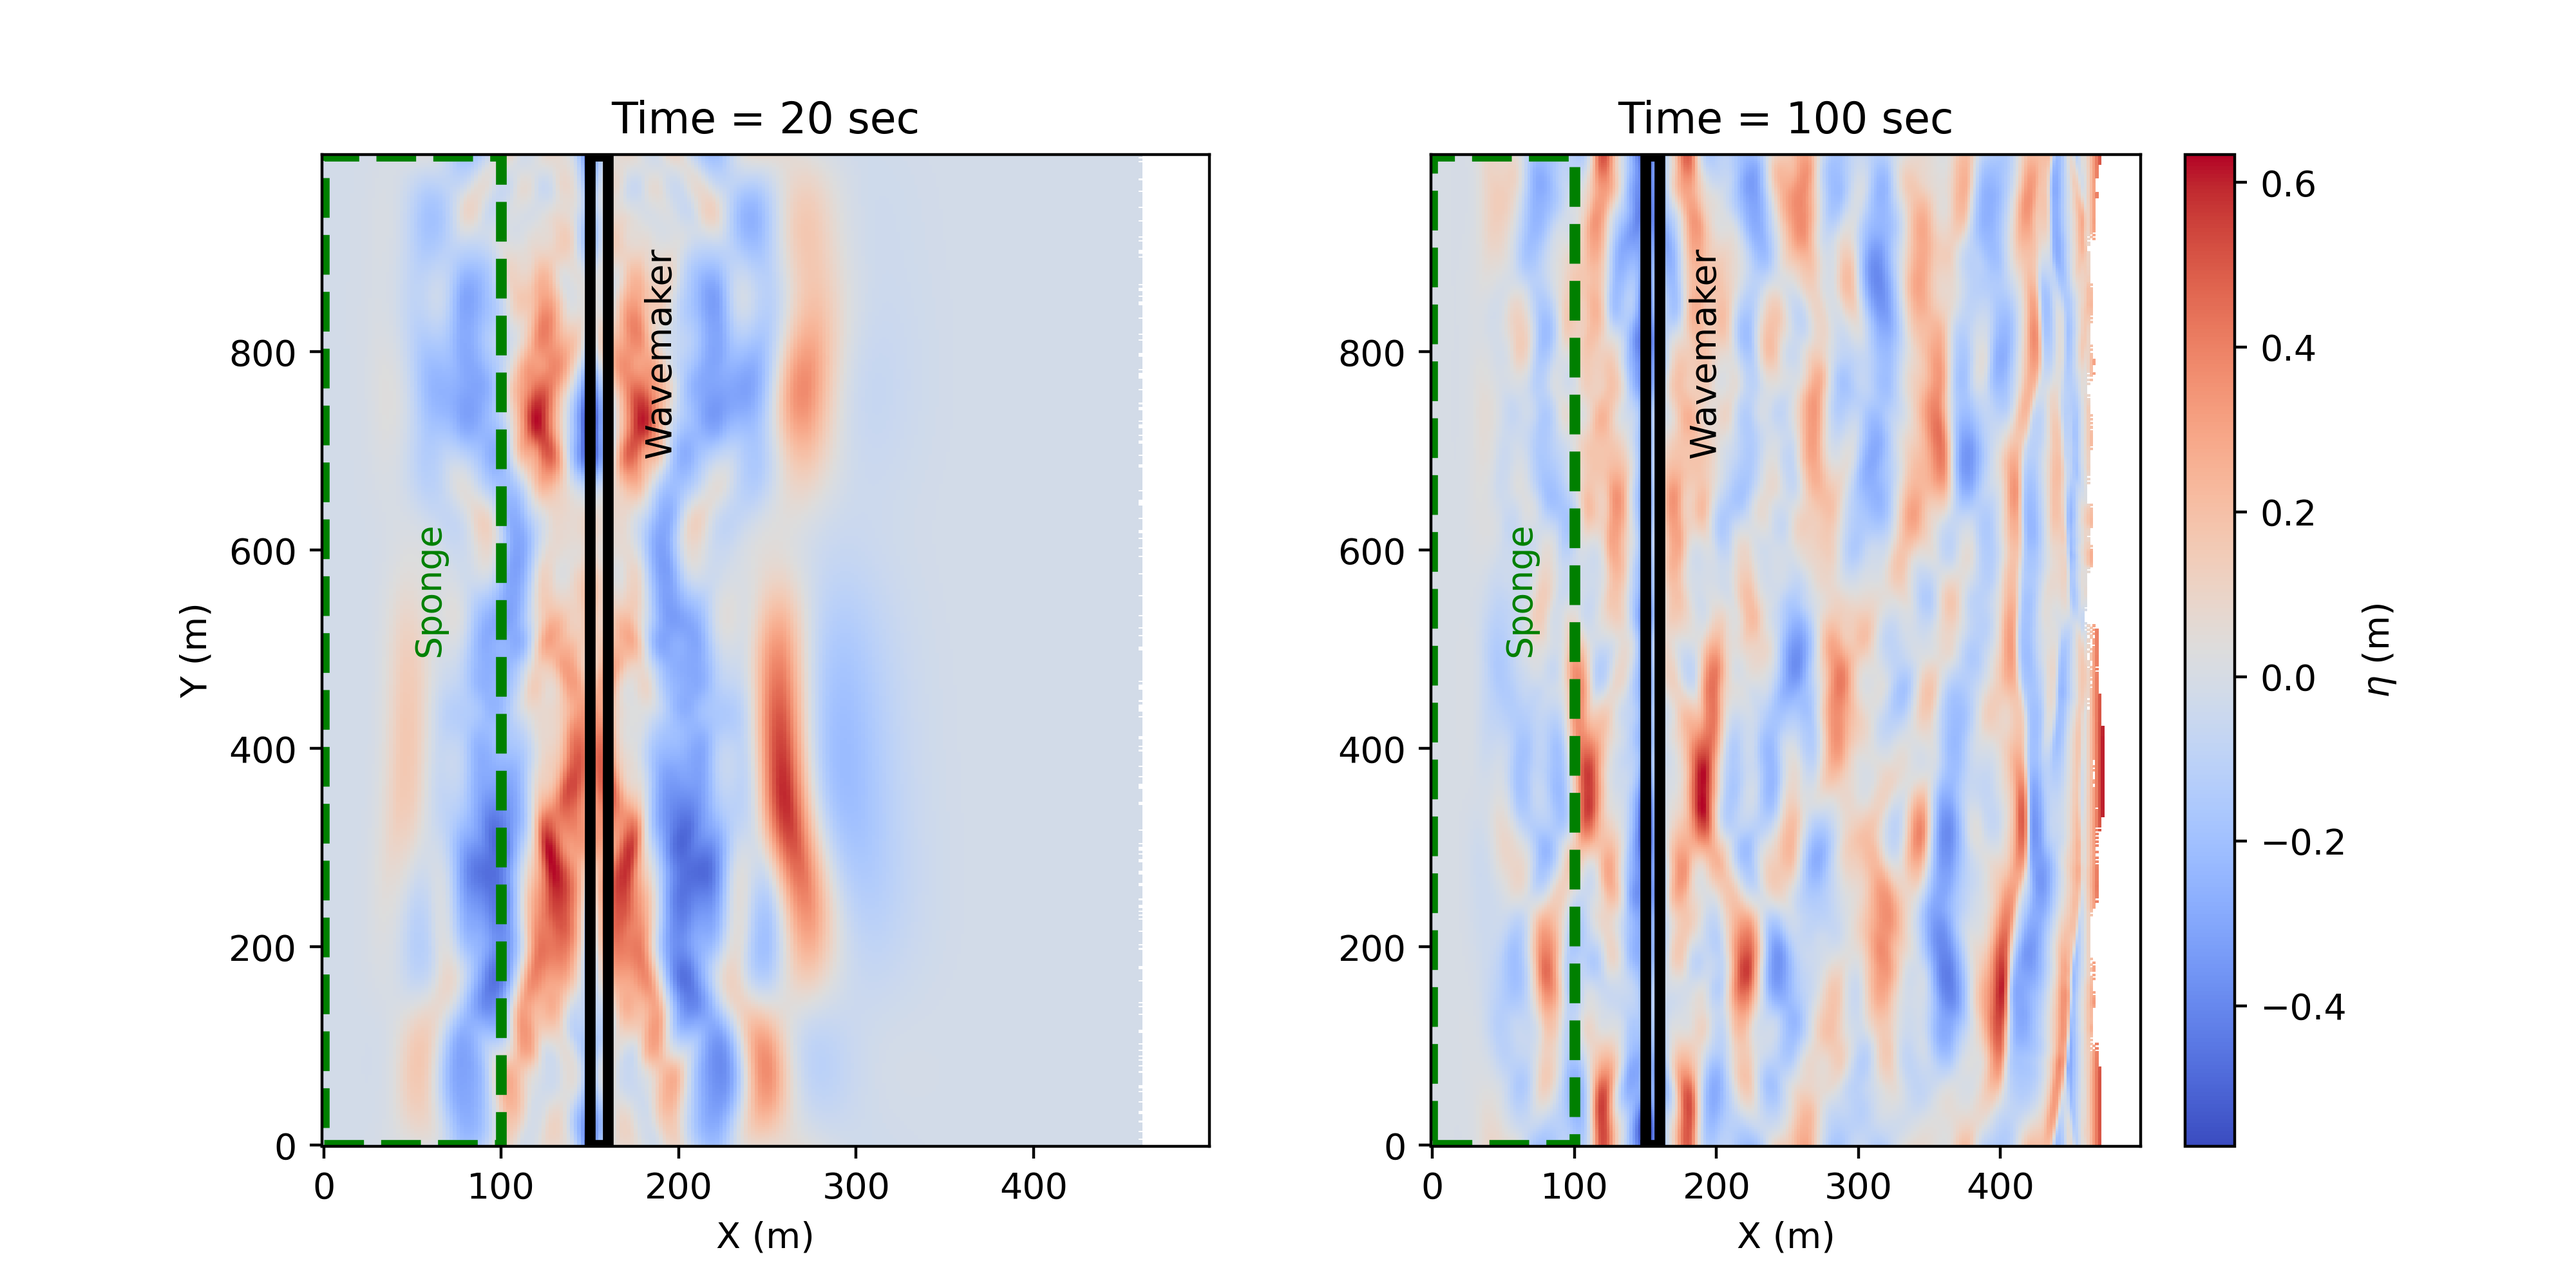
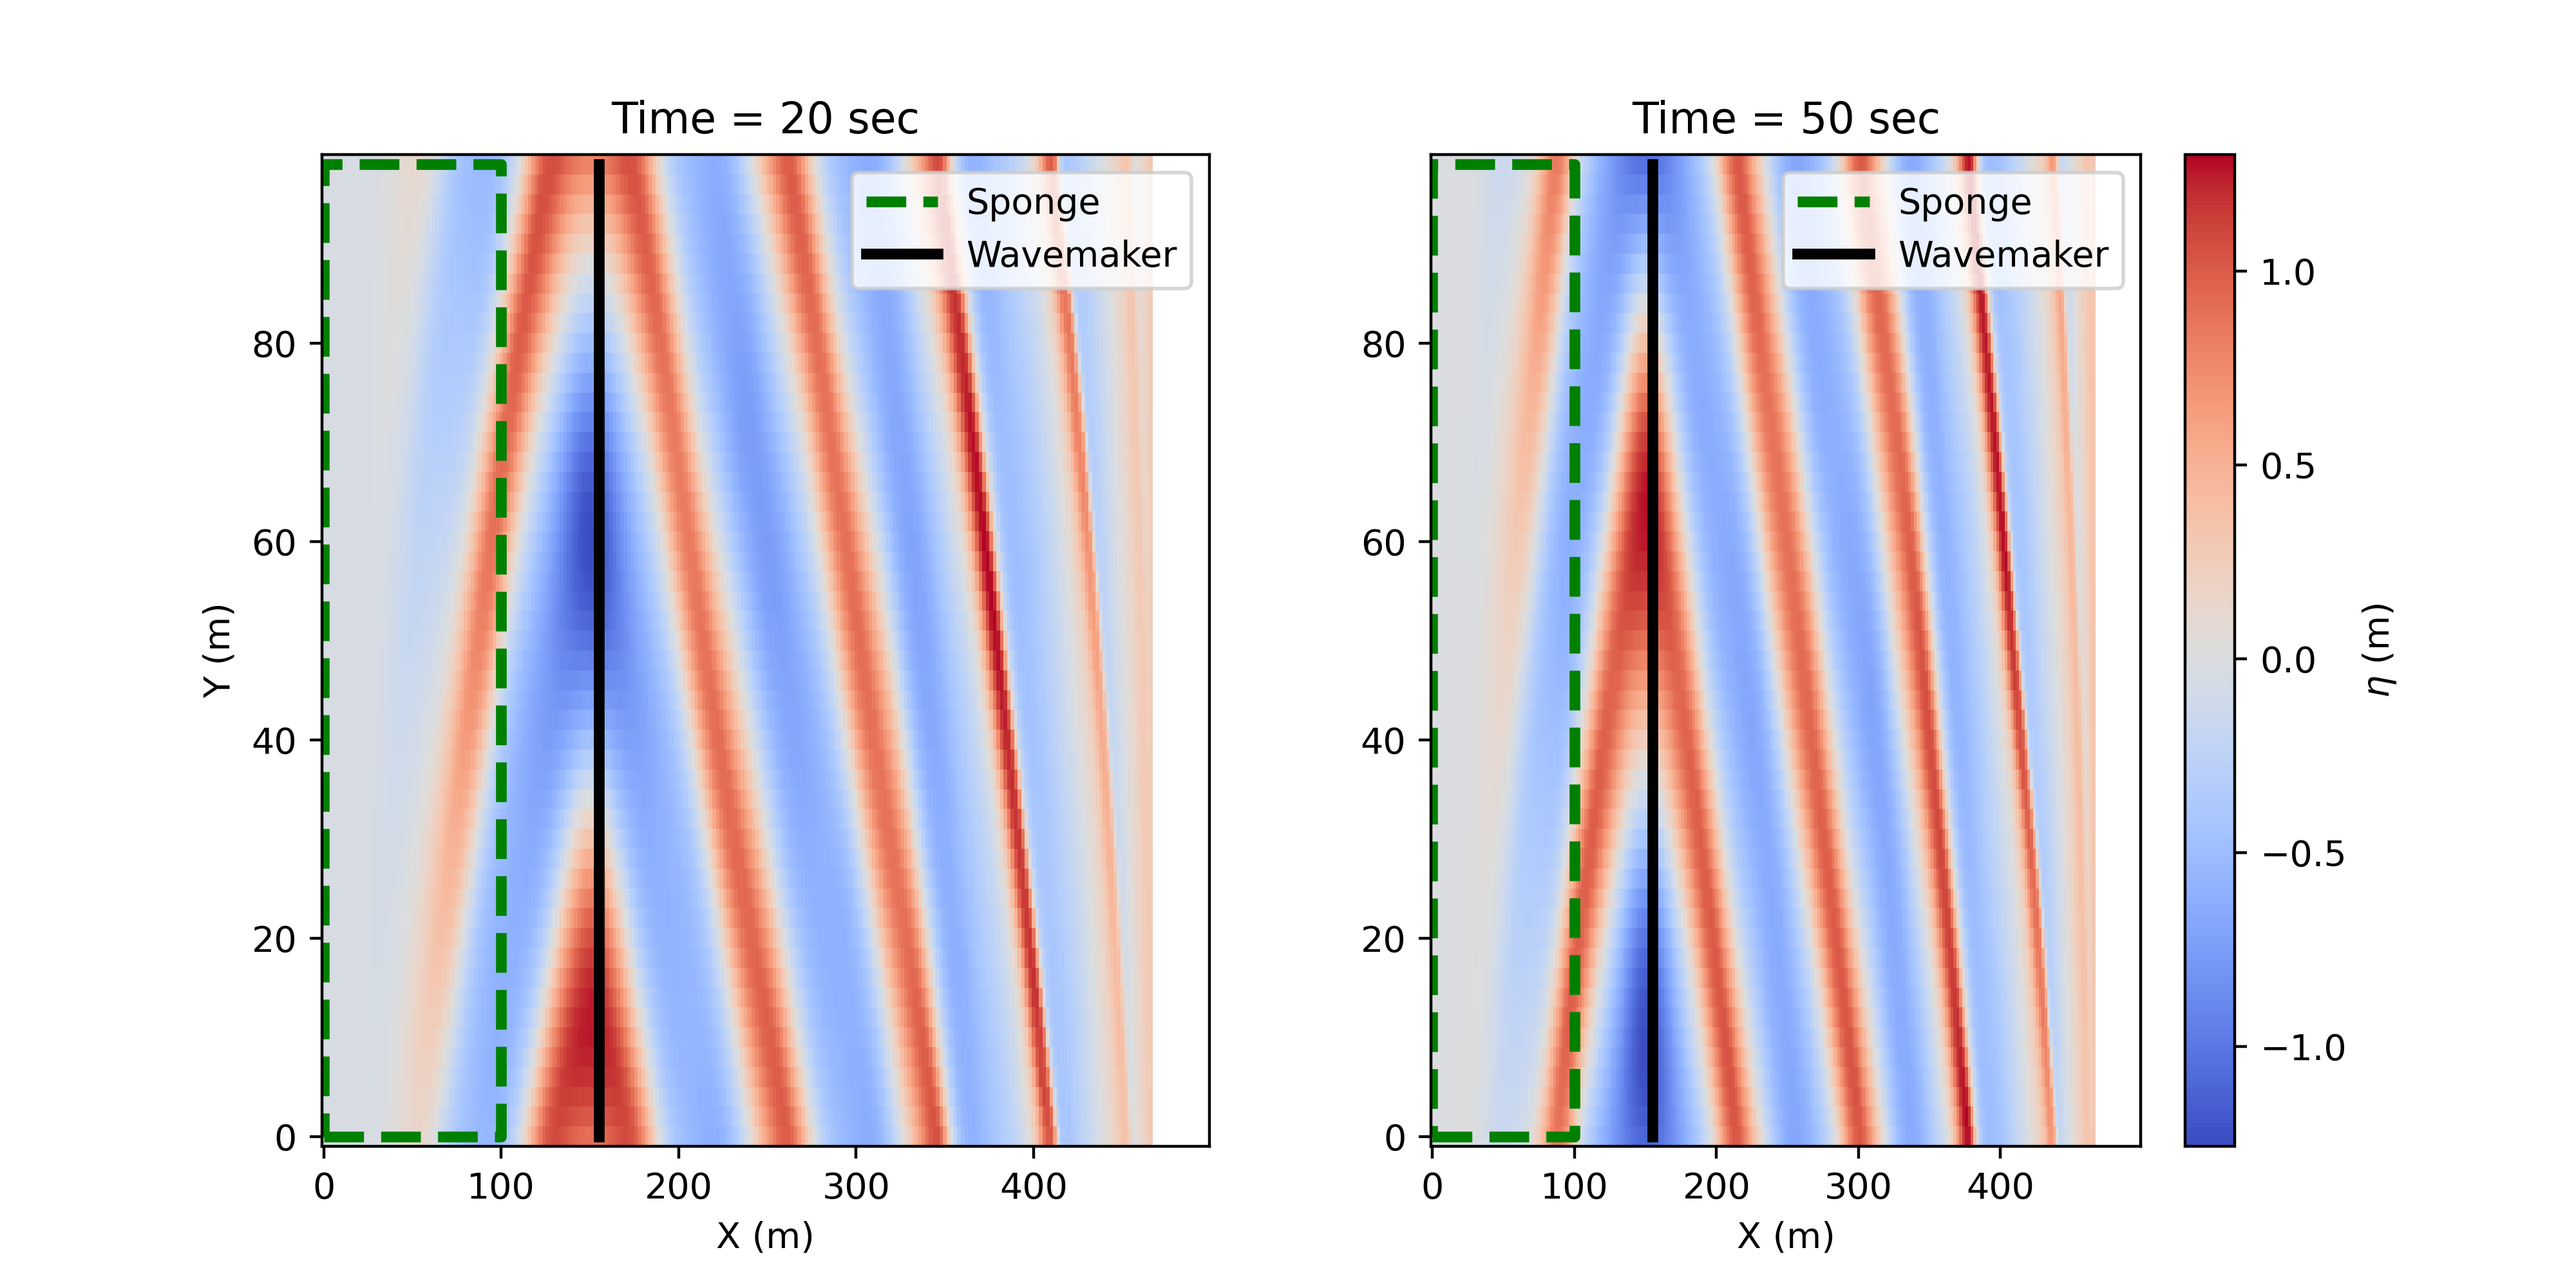
Day 6 checkpoint

diff --git a/simple_cases/rip_tracking/postprocessing/plot_eta_vor_commented_GP.py b/simple_cases/rip_tracking/postprocessing/plot_eta_vor_commented_GP.py
@@ -1,0 +1,146 @@
+
+# -----------------------
+# ----- User Input ------
+# -----------------------
+
+import os
+import numpy as np
+import matplotlib
+import matplotlib.pyplot as plt
+from matplotlib.cm import jet
+from matplotlib import ticker
+
+HOME = os.environ['HOME']
+#fdir = os.path.join(HOME,'FUNWAVE-TVD','simple_cases','rip_2D','work','output')
+fdir = "../../../../simulationRuns/rip_tracking/output/"
+
+# -----------------------
+# -- End of user input --
+# -----------------------
+
+# Getting depth file and determining domain dimensions
+
+depFile = os.path.join(fdir,'dep.out')
+dep = np.loadtxt(depFile)
+[n,m] = dep.shape
+
+# discretization
+dx = 1.0
+dy = 2.0
+
+# x and y field vectors 
+x = np.arange(0,m*dx,dx)
+y = np.arange(0,n*dy,dy)
+
+# Generating 2D grid with x and y points
+[xx,yy] = np.meshgrid(x,y)
+
+nstart = input('enter nstart: ')
+nend = input('enter nend: ')
+
+# previous version (2nd revision) nstart=280
+
+def executeSubplot(i):
+    # Padding integer values with zeros
+    # to be 5 letters long e.g. 1 -> 00001
+    icount = icount + 1
+    fnum = '{0:0>5}'.format(i)
+
+    # Loading data from files
+    u = np.loadtxt(os.path.join(fdir,'umean_'+fnum))
+    v = np.loadtxt(os.path.join(fdir,'vmean_'+fnum))
+    eta = np.loadtxt(os.path.join(fdir,'eta_'+fnum))
+    mask = np.loadtxt(os.path.join(fdir,'mask_'+fnum))
+
+    # Removing masked regions from plot
+    eta[np.where( mask < 1)] = np.nan
+    dep[np.where( mask < 1)] = np.nan
+    u[np.where( mask < 1)] = np.nan
+    v[np.where( mask < 1)] = np.nan
+
+    # ------------------
+    plt.subplot(1,2,1)
+
+    # plot eta (surface elevation)
+    hp = plt.pcolor(xx,yy,eta, cmap=jet)
+    plt.axis([0,m*dx/2,0,n*dy])
+    h_bar = plt.colorbar(hp,orientation="horizontal")
+    tick_locator = ticker.MaxNLocator(nbins=5)
+    h_bar.locator = tick_locator
+    h_bar.update_ticks()
+
+    h_bar.ax.set_xlabel(r'$\eta (m)$')
+    plt.xlabel('x (m)')
+    plt.ylabel('y (m)')
+
+    # ----------------
+    plt.subplot(1,2,2)
+
+    cf = plt.contourf(xx,yy,-dep,10);
+    c_bar = plt.colorbar(cf, orientation='horizontal')
+    c_bar.ax.set_xlabel('depth (m)')
+
+    everyWhich=6 # plot every nth arrow (scales with image)
+    q = plt.quiver(xx[::everyWhich, ::everyWhich],
+                 yy[::everyWhich, ::everyWhich],
+                 u[::everyWhich, ::everyWhich],
+                 v[::everyWhich, ::everyWhich])
+    plt.xlabel('x (m)')
+    plt.axis([0,m*dx/2,0,n*dy])
+
+    plt.savefig('rip_2d_2subplot_num_'+str(i)+'.png', dpi=400)                                                            
+    plt.show()
+
+icount = 0
+#for num=nstart:nend
+for num in range(int(nstart),int(nend)+1):
+              # Padding integer values with zeros
+              # to be 5 letters long e.g. 1 -> 00001
+              icount = icount + 1
+              executeSubplot(num)
+              #fnum = '{0:0>5}'.format(num)
+
+              # Loading data from files
+              #u = np.loadtxt(os.path.join(fdir,'umean_'+fnum))
+              #v = np.loadtxt(os.path.join(fdir,'vmean_'+fnum))
+              #eta = np.loadtxt(os.path.join(fdir,'eta_'+fnum))
+              #mask = np.loadtxt(os.path.join(fdir,'mask_'+fnum))
+
+              # Removing masked regions from plot
+              #eta[np.where( mask < 1)] = np.nan
+              #dep[np.where( mask < 1)] = np.nan
+              #u[np.where( mask < 1)] = np.nan
+              #v[np.where( mask < 1)] = np.nan
+
+              # ------------------
+              #plt.subplot(1,2,1)
+
+              # plot eta (surface elevation)
+              #hp = plt.pcolor(xx,yy,eta, cmap=jet)
+              #plt.axis([0,m*dx/2,0,n*dy])
+              #h_bar = plt.colorbar(hp,orientation="horizontal")
+              #tick_locator = ticker.MaxNLocator(nbins=5)
+              #h_bar.locator = tick_locator
+              #h_bar.update_ticks()
+
+              #h_bar.ax.set_xlabel(r'$\eta (m)$')
+              #plt.xlabel('x (m)')
+              #plt.ylabel('y (m)')
+
+              # ----------------
+              #plt.subplot(1,2,2)
+
+              #cf = plt.contourf(xx,yy,-dep,10);
+              #c_bar = plt.colorbar(cf, orientation='horizontal')
+              #c_bar.ax.set_xlabel('depth (m)')
+
+              #everyWhich=6 # plot every nth arrow (scales with image)
+              #q = plt.quiver(xx[::everyWhich, ::everyWhich],
+              #               yy[::everyWhich, ::everyWhich],
+              #               u[::everyWhich, ::everyWhich],
+              #               v[::everyWhich, ::everyWhich])
+              #plt.xlabel('x (m)')
+              #plt.axis([0,m*dx/2,0,n*dy])
+
+              #plt.savefig('rip_2d_2subplot_num_'+str(num)+'.png', dpi=400)                                                            
+              #plt.show()                                                                                                              

diff --git a/simple_cases/beach_2d/postprocessing/plot_current_GP.py b/simple_cases/beach_2d/postprocessing/plot_current_GP.py
@@ -9,13 +9,15 @@ import os
 # write your OWN PC folder path for fdir
 # Remember that we use for Mac & Linux machines '/', while on windows '\', the r denotes raw string
 #fdir = r'/Users/Gaby/Desktop/Postprocessing-Workshop/simple_cases_output/beach_2D/beach_2D/'
-#fdir = "../../../../simulationRuns/beach2D/output/"
-fdir = "../../../../simulationRuns/beach2D_radiation/output"
+fdir = "../../../../simulationRuns/beach2D/output/"
+#fdir = "../../../../simulationRuns/beach2D_radiation/output"
 
 # upload eta file
 eta = np.loadtxt(os.path.join(fdir,'eta_00001'))
 # define plot location
 n,m = np.shape(eta)
+print("Nglob:", n)
+print("Mglob:", m)
 dx = 2.0
 dy = 2.0
 
@@ -26,8 +28,8 @@ y = np.asarray([float(ya)*dy for ya in range(n)]) #numpy shape
 x_sponge =      [0,         100,        100,            0,              0  ]
 y_sponge =      [0,         0,          y[len(y)-1],    y[len(y)-1],    0  ]
 
-x_wavemaker =   [150,       160,        160,            150,            150]
-y_wavemaker =   [0,         0,          y[len(y)-1],    y[len(y)-1],    0  ]
+x_wavemaker =   [155,           155,        ]
+y_wavemaker =   [0,             y[len(y)-1] ]
 
 nfile =         [   1       ]       # range of eta files you want to plot
 min =           [   '200'   ]       # time  you want to plot
@@ -67,7 +69,7 @@ class Beach2DPlot:
         
         ax = fig.add_subplot(1, testFileQuantity, i + 1)
         fig.subplots_adjust(hspace=1,wspace=.25)
-        plt.pcolor(x, y, self.ht_masked, cmap='coolwarm')
+        plt.pcolormesh(x, y, self.ht_masked, cmap='coolwarm')#plt.pcolor(x, y, self.ht_masked, cmap='coolwarm')
 
         title = 'Time = ' + min[i] + ' sec'
         plt.title(title)
@@ -82,11 +84,13 @@ class Beach2DPlot:
                             coordinates='figure',color='k')
 
         # plot wavemaker and sponge
-        plt.plot(x_sponge,y_sponge,'g--',linewidth=3)
-        plt.text(50,500,'Sponge',color='g',rotation=90)#;
+        plt.plot(x_sponge, y_sponge, 'g--', linewidth = 3, label = "Sponge")
+        #plt.text(50,500,'Sponge',color='g',rotation=90);
 
-        plt.plot(x_wavemaker,y_wavemaker,'k-',linewidth=3)
-        plt.text(180,700,'Wavemaker',color='k',rotation=90)#;
+        plt.plot(x_wavemaker, y_wavemaker, 'k-', linewidth = 3, label = "Wavemaker")
+        #plt.text(180,700,'Wavemaker',color='k',rotation=90);
+
+        plt.legend()
 
         if i == 0:
             plt.ylabel('Y (m)')

diff --git a/simple_cases/beach_2d/postprocessing/plot_wave_2d_GP.py b/simple_cases/beach_2d/postprocessing/plot_wave_2d_GP.py
@@ -20,6 +20,8 @@ print("Mglob:", m)
 dx = 2.0
 dy = 2.0
 
+x0_sponge = 100
+
 x = np.asarray([float(xa)*dx for xa in range(m)])
 y = np.asarray([float(ya)*dy for ya in range(n)])
 
@@ -27,11 +29,11 @@ y = np.asarray([float(ya)*dy for ya in range(n)])
 x_sponge =      [0,         100,        100,            0,              0  ]
 y_sponge =      [0,         0,          y[len(y)-1],    y[len(y)-1],    0  ]
 
-x_wavemaker =   [150,       160,        160,            150,            150]
-y_wavemaker =   [0,         0,          y[len(y)-1],    y[len(y)-1],    0  ]
+x_wavemaker =   [155,       155,       ]
+y_wavemaker =   [0,         y[len(y)-1]]
 
-nfile = [10, 50]    # range of eta files you want to plot
-min = ['20','100']  # time you want to plot
+nfile = [10, 25]    # range of eta files you want to plot
+min = ['20','50']  # time you want to plot
 
 # figure size option 
 wid=10    # width
@@ -66,17 +68,20 @@ class Beach2DPlotII:
 
         ax = fig.add_subplot(1, testFileQuantity, i + 1)
         fig.subplots_adjust(hspace = 1, wspace = .25)
-        plt.pcolor(x, y, eta_masked, cmap = 'coolwarm')
+        plt.pcolormesh(x, y, eta_masked, cmap = 'coolwarm') #plt.pcolor(x, y, eta_masked, cmap = 'coolwarm')
 
         title = "Time = " + min[i] + " sec"
         plt.title(title)
         #plt.hold(True)
-        # plot sponge and wavemaker
-        plt.plot(x_sponge, y_sponge, "g--", linewidth = 3)
-        plt.text(50, 500, "Sponge", color = 'g', rotation = 90)
 
-        plt.plot(x_wavemaker, y_wavemaker, 'k-', linewidth = 3)
-        plt.text(180, 700, 'Wavemaker', color = 'k', rotation = 90)
+        # plot sponge and wavemaker
+        plt.plot(x_sponge, y_sponge, "g--", linewidth = 3, label = "Sponge") 
+        #plt.text(50, 500, "Sponge", color = 'g', rotation = 90)#FIXME: Change this to legend
+
+        plt.plot(x_wavemaker, y_wavemaker, 'k-', linewidth = 3, label = "Wavemaker") #FIXME: Change this to line
+        #plt.text(180, 700, 'Wavemaker', color = 'k', rotation = 90)#FIXME: Change this to legend
+
+        plt.legend()
 
         if i == 0:
             plt.ylabel('Y (m)')

diff --git a/simple_cases/rip_2d/postprocessing/plot_eta_vor_commented_GP.py b/simple_cases/rip_2d/postprocessing/plot_eta_vor_commented_GP.py
@@ -11,7 +11,9 @@ from matplotlib.cm import jet
 from matplotlib import ticker
 
 HOME = os.environ['HOME']
-fdir = os.path.join(HOME,'FUNWAVE-TVD','simple_cases','rip_2D','work','output')
+#fdir = os.path.join(HOME,'FUNWAVE-TVD','simple_cases','rip_2D','work','output')
+#fdir = "../../../../simulationRuns/rip_2d/output/"
+fdir = "../../../../simulationRuns/rip_2d_foam/output/"
 
 # -----------------------
 # -- End of user input --
@@ -20,6 +22,7 @@ fdir = os.path.join(HOME,'FUNWAVE-TVD','simple_cases','rip_2D','work','output')
 # Getting depth file and determining domain dimensions
 
 depFile = os.path.join(fdir,'dep.out')
+print(depFile)
 dep = np.loadtxt(depFile)
 [n,m] = dep.shape
 
@@ -73,7 +76,7 @@ def executeSubplot(i):
         # ----------------
         plt.subplot(1,2,2)
 
-        cf = plt.contourf(xx,yy,-dep,10);
+        cf = plt.contourf(xx,yy,-dep,10)
         c_bar = plt.colorbar(cf, orientation='horizontal')
         c_bar.ax.set_xlabel('depth (m)')
 
@@ -86,10 +89,10 @@ def executeSubplot(i):
         plt.axis([0,m*dx/2,0,n*dy])
         plt.savefig('rip_2d_2subplot_num_'+str(i)+'.png', dpi=400)                                                            
         plt.show()   
-icount = 0
+#icount = 0
 #for num=nstart:nend
 for num in range(int(nstart),int(nend)+1):
-        icount += 1
+        #icount += 1
         executeSubplot(num)
         # Padding integer values with zeros
         # to be 5 letters long e.g. 1 -> 00001
